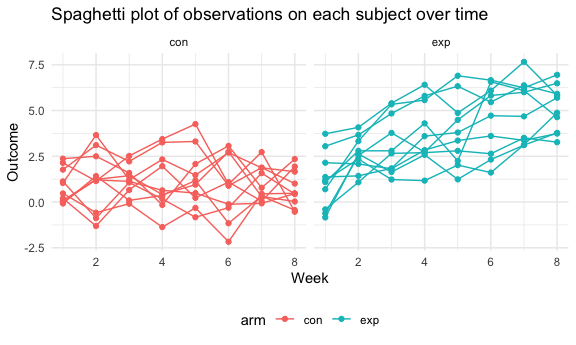
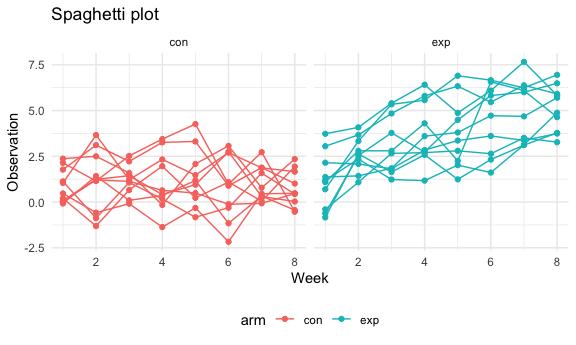
add comments to problem 2 plot, and start working on problem 3

Changed region(s): [[0.2812, 0.029, 0.8438, 0.058], [0.0, 0.3188, 0.0312, 0.5507]]

diff --git a/p8105_hw5_xl3371.md b/p8105_hw5_xl3371.md
@@ -5,20 +5,6 @@ Xuer Liu
 
 ## Problem 2
 
-Create a tidy dataframe containing data from all participants, including
-the subject ID, arm, and observations over time:
-
-- Start with a dataframe containing all file names; the list.files
-  function will help
-- Iterate over file names and read in data for each subject using
-  purrr::map and saving the result as a new variable in the dataframe
-- Tidy the result; manipulate file names to include control arm and
-  subject ID, make sure weekly observations are “tidy”, and do any other
-  tidying that’s necessary
-
-Make a spaghetti plot showing observations on each subject over time,
-and comment on differences between groups.
-
 ``` r
 full_df = 
   tibble(
@@ -38,21 +24,54 @@ tidy_df =
   pivot_longer(
     week_1:week_8,
     names_to = "week",
-    values_to = "outcome",
+    values_to = "observation",
     names_prefix = "week_") %>%
-  mutate(week = as.numeric(week)) %>%
-  select(arm, subject_id = files, week, outcome)
+  select(arm, subject_id = files, week, observation) %>%
+  mutate(week = as.numeric(week))
 ```
 
 ``` r
 tidy_df %>%
-  ggplot(aes(x = week, y = outcome, group = subject_id, color = arm)) + 
+  ggplot(aes(x = week, y = observation, group = subject_id, color = arm)) + 
   geom_point() + 
   geom_path() + 
-  labs(title = "Spaghetti plot of observations on each subject over time",
+  labs(title = "Spaghetti plot",
        x = "Week",
-       y = "Outcome") +
+       y = "Observation") +
   facet_grid(~arm) 
 ```
 
 <img src="p8105_hw5_xl3371_files/figure-gfm/unnamed-chunk-3-1.png" width="90%" />
+
+## Problem 3
+
+``` r
+set.seed(371)
+
+sim_t_test = function(mu){
+  sim_data =
+  tibble(rnorm(n = 30, mean = mu, sd = 5)) 
+  
+  result = 
+    t.test(sim_data) %>%
+    broom::tidy() %>%
+    select(estimate, p.value)
+  return(result)
+}
+  
+mu_0 =
+  expand_grid(
+    mu = 0,
+    iter = 1:5000
+  ) %>%
+  mutate(t_test_df = map(mu, sim_t_test)) %>%
+  unnest(t_test_df)
+```
+
+``` r
+# Repeat the above for mu={1,2,3,4,5,6}
+mu_repeat =
+  expand_grid(mu = 1:6, iteration = 1:5000) %>%
+  mutate(t_test_df = map(mu, sim_t_test)) %>%
+  unnest(t_test_df)
+```
